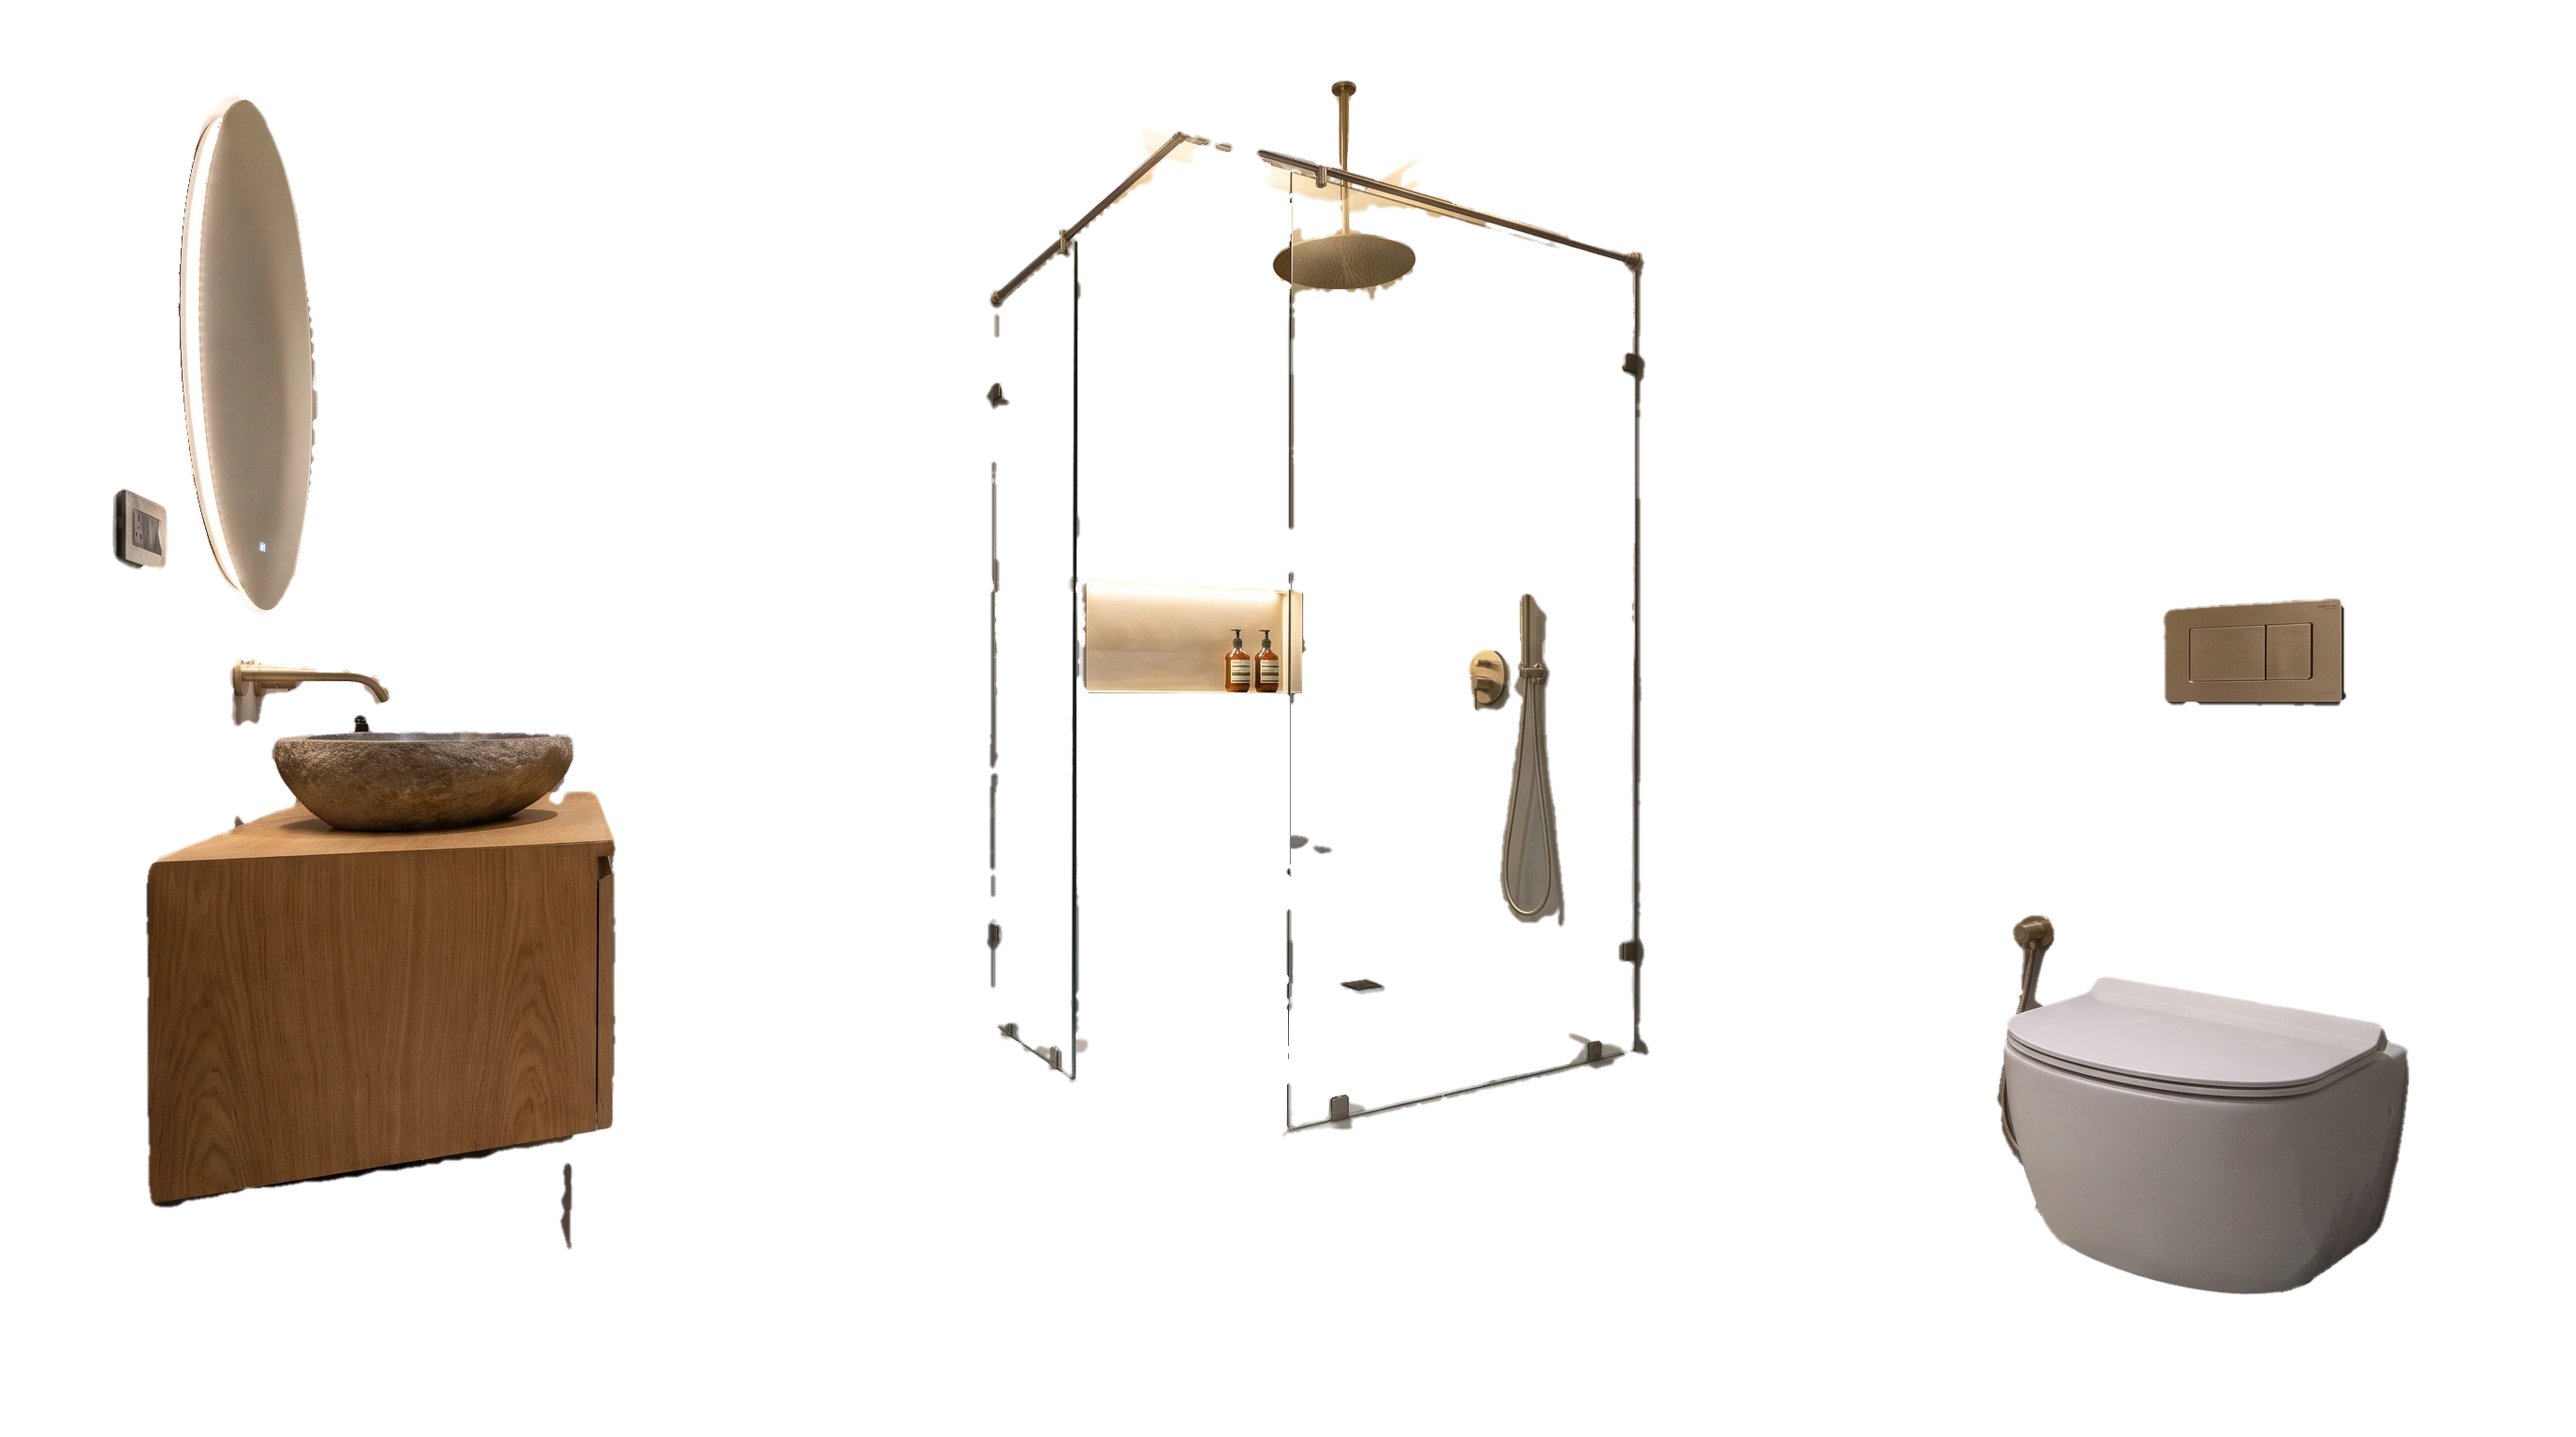
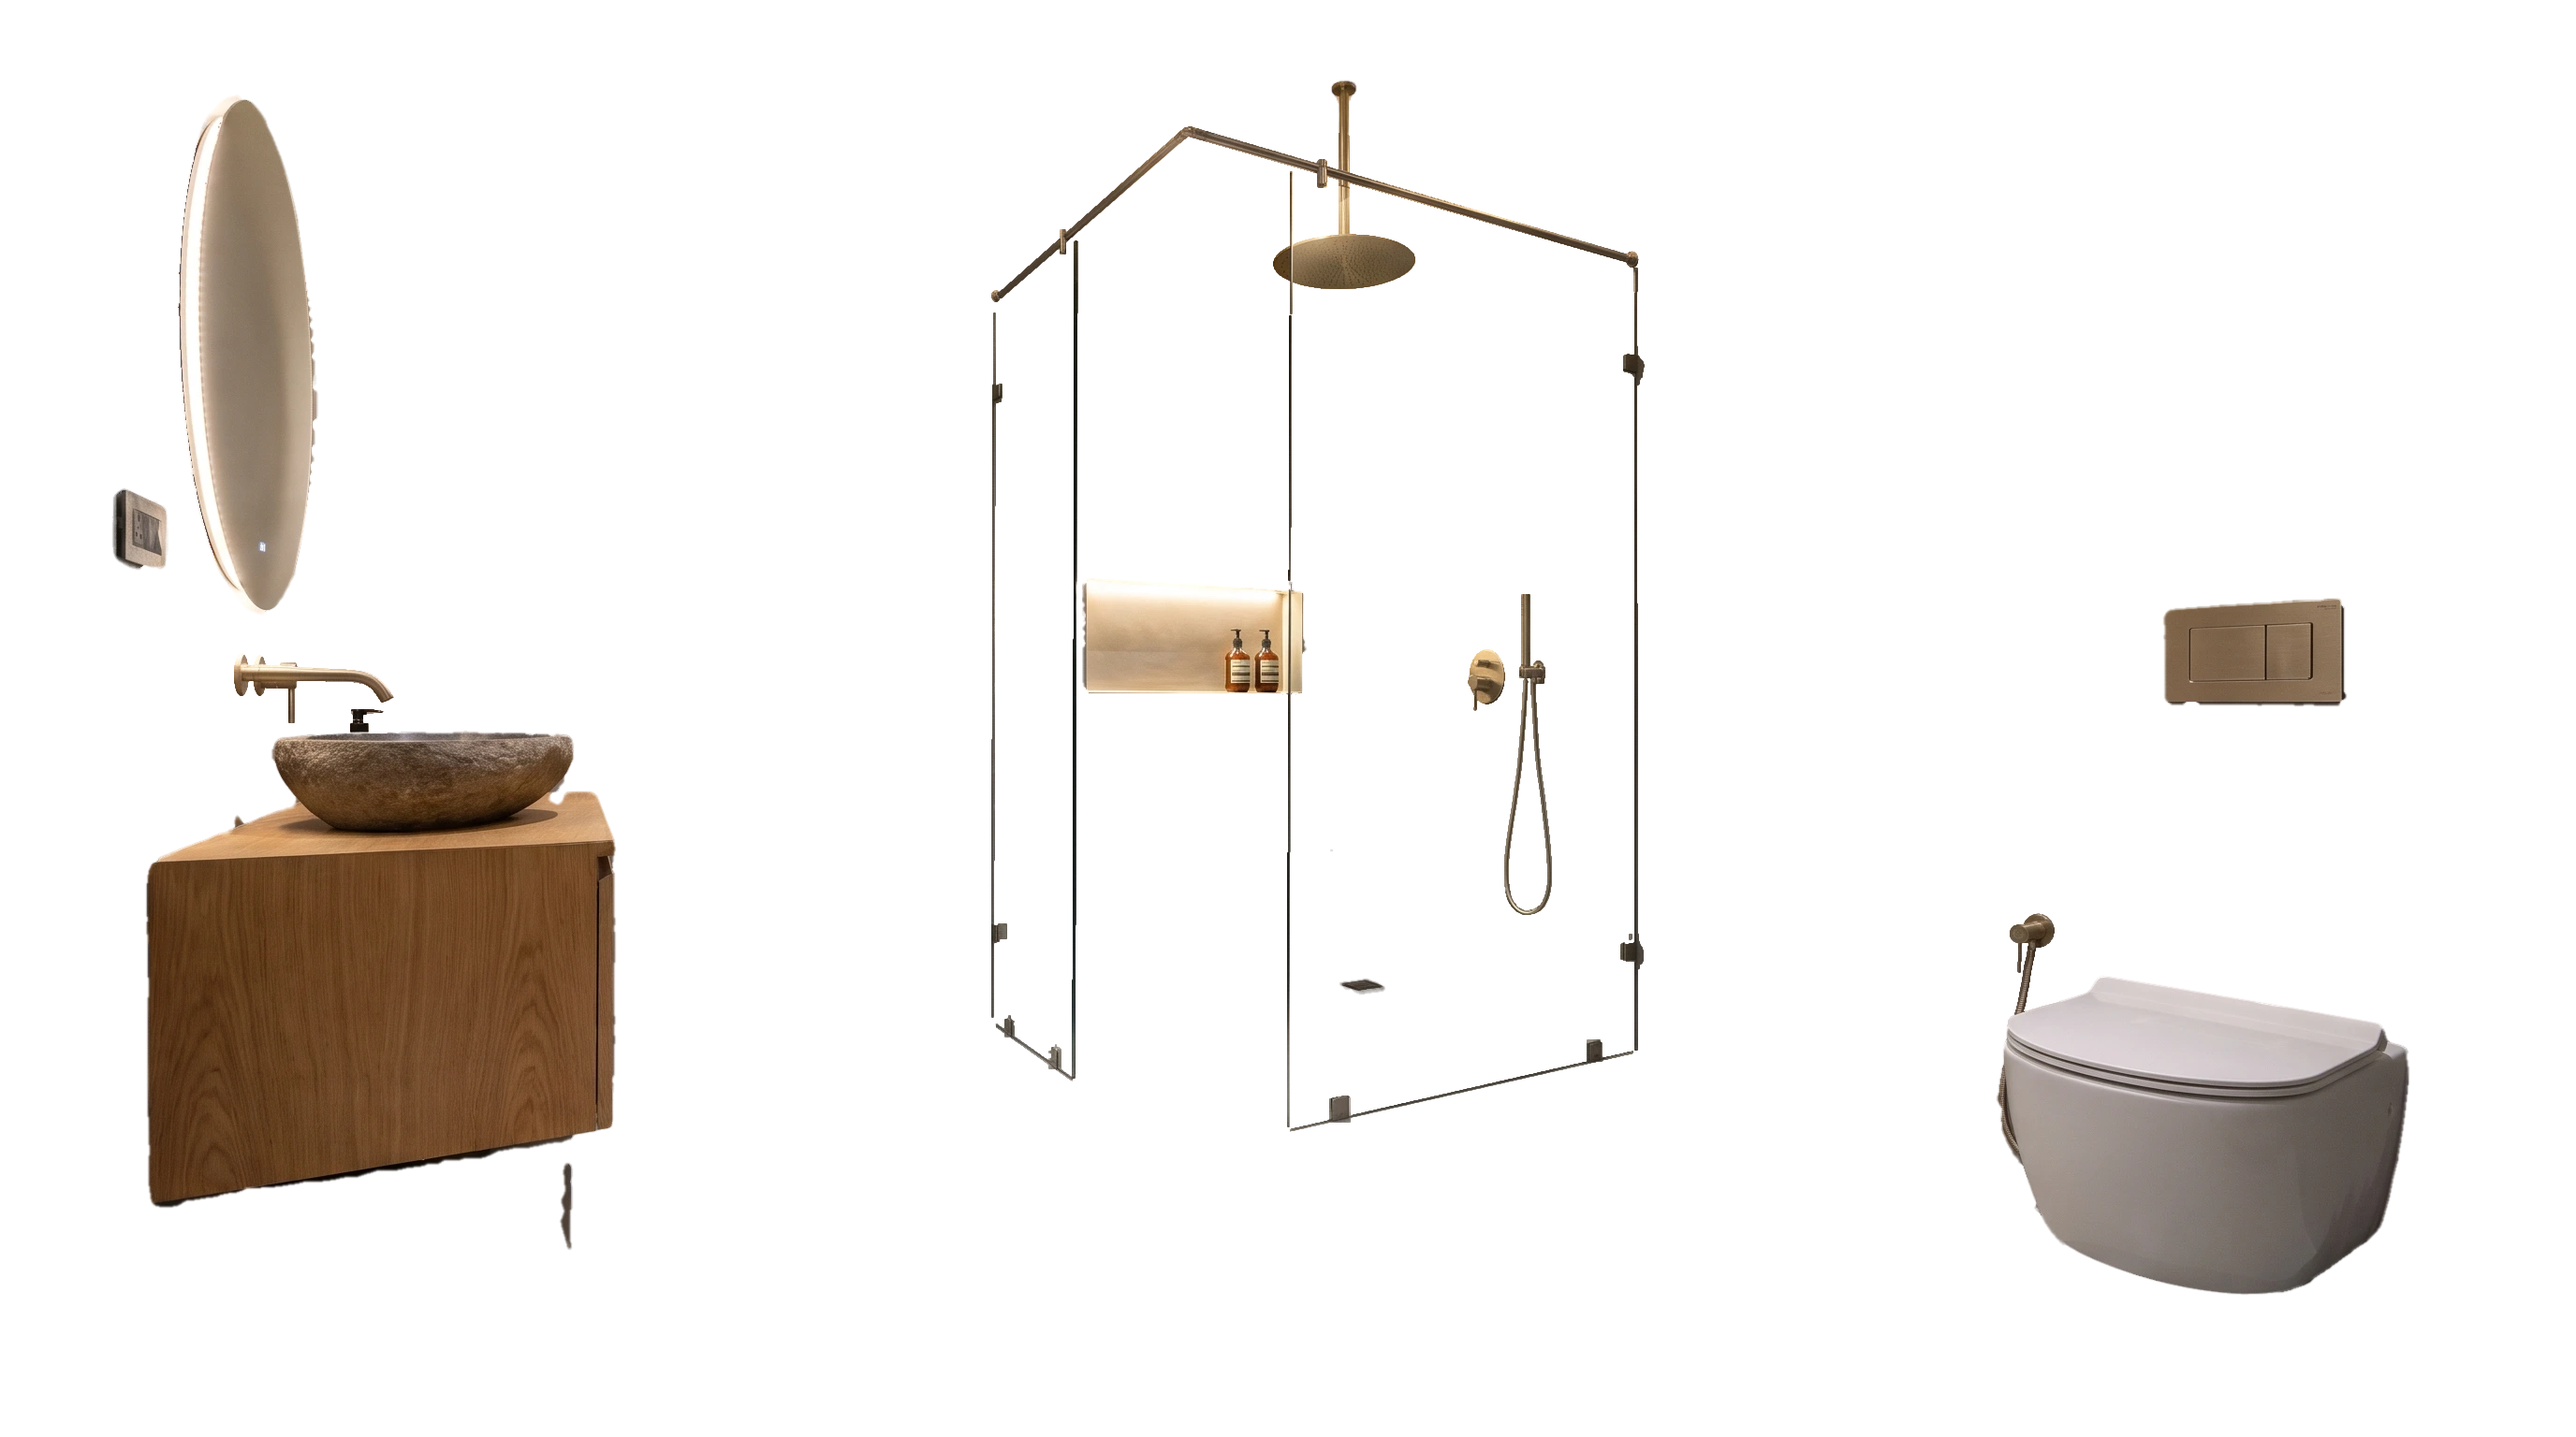
Bathroom pilot round 3: clean cut-outs for fittings, no grey edge on dark or light tiles
Hoses, hand showers, valve plates, jet spray, basin tap, soap pump, glass rail,
rain head, glass edges, glass clamps and glass base lines are re-cut from traced
shapes, so no old wall or shadow travels with the fitting. Offline cache bumped
to v3 so installed copies refresh.

Claude-Session: https://claude.ai/code/session_01AUDSyfjn6JAuhcR9HRc2KP

diff --git a/docs/looks/sw.js b/docs/looks/sw.js
@@ -1,5 +1,5 @@
 /* Try Your Tiles (bathrooms): works with no network once opened (shell + rooms), tile faces after "Save for offline". */
-const SHELL = 'drb-shell-v2', FACES = 'drb-faces-v1', FONTS = 'drb-fonts-v1';
+const SHELL = 'drb-shell-v3', FACES = 'drb-faces-v1', FONTS = 'drb-fonts-v1';
 const ROOMS = ['r7', 'r3', 'r6'];
 const FILES = ['./', 'index.html', 'app.js', 'engine.js', 'designs.json', 'mh.json', 'tones.json', 'manifest.webmanifest', 'd-logo.png', 'icons/icon-192.png', 'icons/icon-512.png', 'icons/icon-180.png',
   ...ROOMS.flatMap(r => ['room.json', 'base.jpg', 'light.jpg', 'maps.png', 'obj.webp', 'thumb.jpg', 'depth.jpg'].map(f => `rooms/${r}/${f}`))];

diff --git a/src/looks/sw.js b/src/looks/sw.js
@@ -1,5 +1,5 @@
 /* Try Your Tiles (bathrooms): works with no network once opened (shell + rooms), tile faces after "Save for offline". */
-const SHELL = 'drb-shell-v2', FACES = 'drb-faces-v1', FONTS = 'drb-fonts-v1';
+const SHELL = 'drb-shell-v3', FACES = 'drb-faces-v1', FONTS = 'drb-fonts-v1';
 const ROOMS = ['r7', 'r3', 'r6'];
 const FILES = ['./', 'index.html', 'app.js', 'engine.js', 'designs.json', 'mh.json', 'tones.json', 'manifest.webmanifest', 'd-logo.png', 'icons/icon-192.png', 'icons/icon-512.png', 'icons/icon-180.png',
   ...ROOMS.flatMap(r => ['room.json', 'base.jpg', 'light.jpg', 'maps.png', 'obj.webp', 'thumb.jpg', 'depth.jpg'].map(f => `rooms/${r}/${f}`))];
